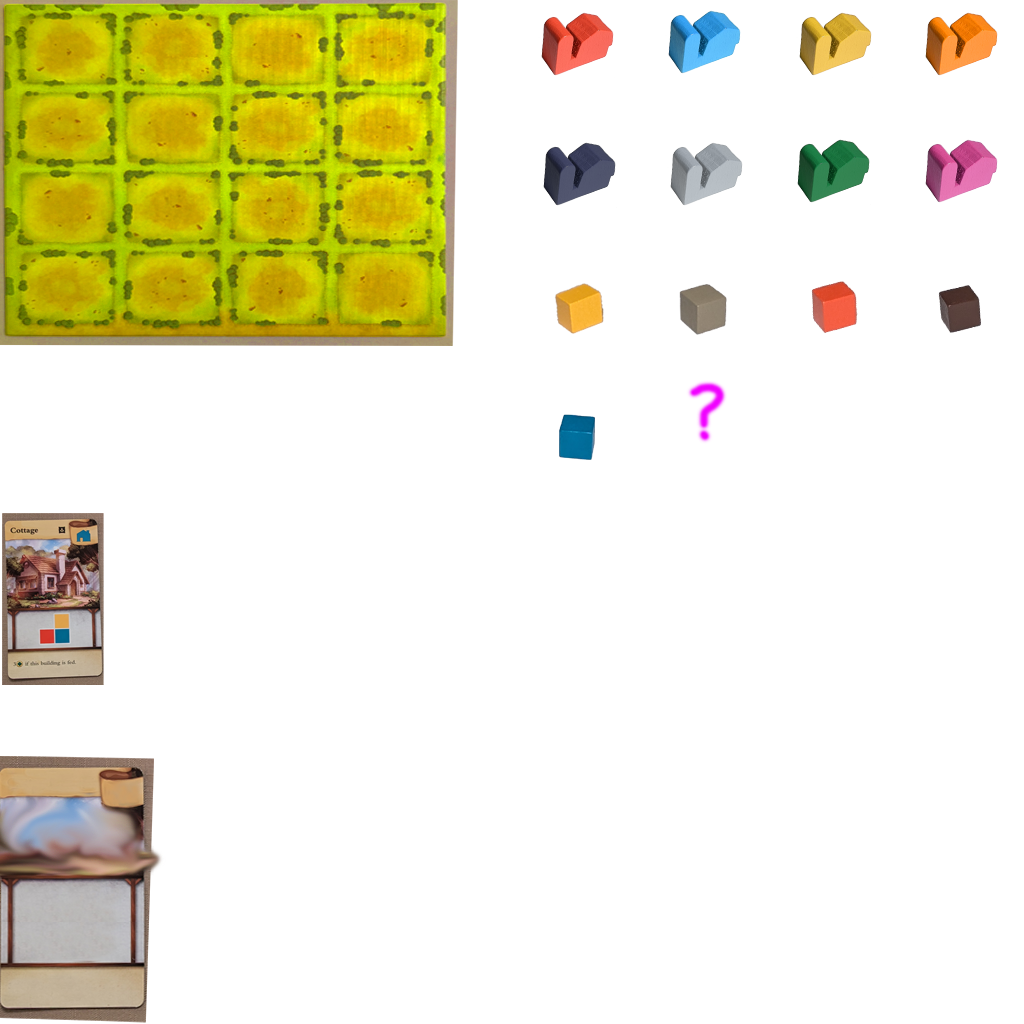
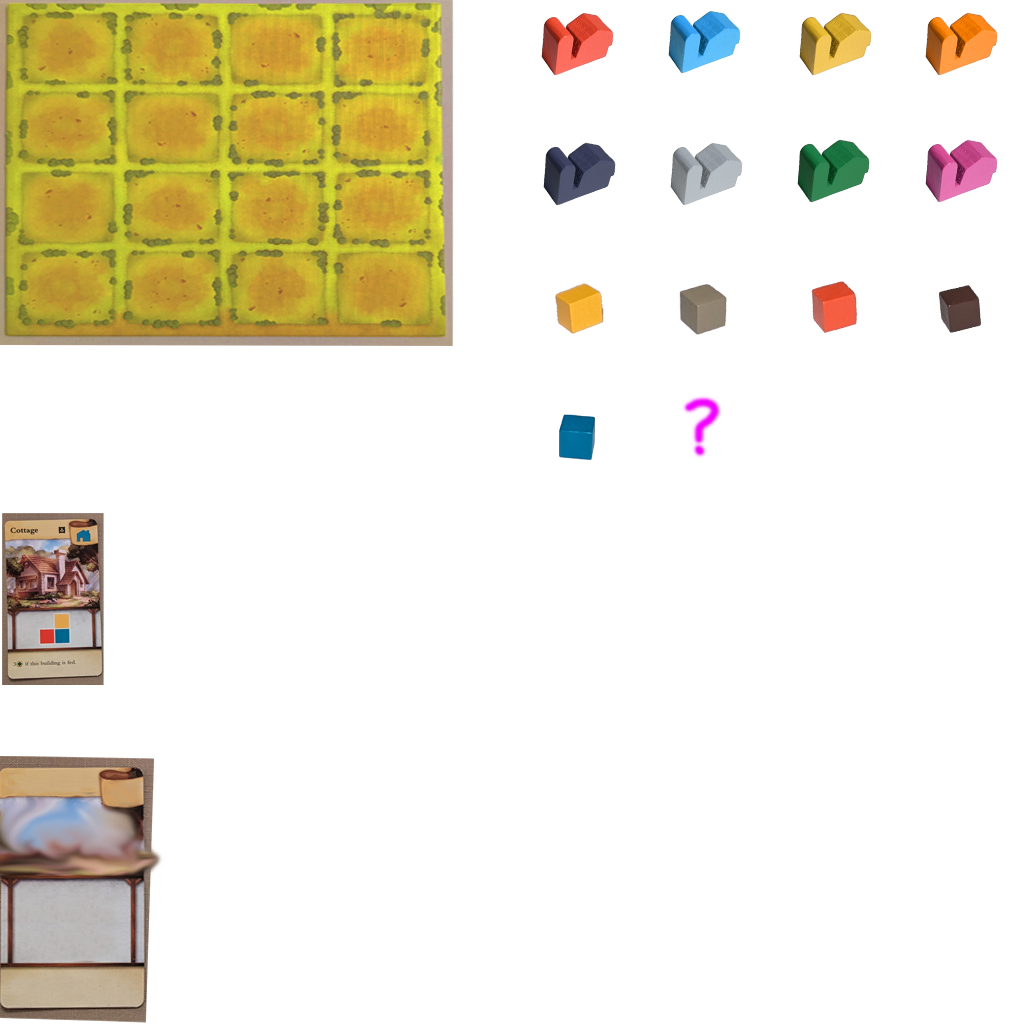
meeples

Changed region(s): [[0.0, 0.0, 0.4688, 0.3438], [0.6562, 0.375, 0.7188, 0.4375]]

diff --git a/iris/gamemode.js b/iris/gamemode.js
@@ -3,6 +3,9 @@ import Towns from './towns.js';
 export default class GameMode {
   constructor(iris) {
     this.iris = iris;
+    this.colors = {
+      background: '#ccdd99'
+    };
     this._setup();
   }
 
@@ -36,7 +39,13 @@ export default class GameMode {
         for (let col = 0; col < 4; col++) {
           const x = left + col * w;
           const y = top + row * h;
-          this.layout.tiles.push({ bounds: [x, y, w, h] });
+          this.layout.tiles.push(
+            {
+              type: 'tile',
+              bounds: [x, y, w, h],
+              id: row * 4 + col,
+             }
+          );
         }
       }
     }
@@ -69,13 +78,15 @@ export default class GameMode {
       const left = 350;
       const top = 532;
       let i = 0;
+      const names = ['wheat', 'stone', 'brick', 'wood', 'glass'];
       for (let row = 0; row < 5; row++) {
         for (let col = 0; col < 1; col++) {
             const x = left + (row % 2 === 0 ? -1/3 * w : 1/3 * w);
           const y = top + row * h;
           let resource = {
             bounds: [x, y, w, h],
-            id: i
+            id: i,
+            piece: names[i],
           };
           this.layout.resources.push(resource);
           i++;
@@ -85,7 +96,9 @@ export default class GameMode {
 
     // areas for 16 tiles
     this.layout.tiles.forEach(tile => {
-      this.iris.areas.add(tile.bounds);
+      let area = this.iris.areas.addBounds(tile.bounds, null, this._onDragBoard.bind(this));
+      area.type = tile.type;
+      area.id = tile.id;
     });
 
     // cards
@@ -94,12 +107,12 @@ export default class GameMode {
       let onCLick = () => {
         this._setCard(card.id);
       };
-      this.iris.areas.add(card.bounds, onCLick);
+      this.iris.areas.addBounds(card.bounds, onCLick);
     });
 
     // card area
     this.layout.card.text = this.iris.addText(this.layout.card.label, this.layout.card.bounds);
-    this.iris.areas.add(this.layout.card.bounds);
+    this.iris.areas.addBounds(this.layout.card.bounds, null, this._onDragCard.bind(this));
 
     // resources
     this.layout.resources.forEach(resource => {
@@ -107,7 +120,8 @@ export default class GameMode {
       let onClick = () => {
         //this._setCard(resource.id);
       };
-      this.iris.areas.add(resource.bounds, onClick);
+      let area = this.iris.areas.addBounds(resource.bounds, onClick, this._onDragResource.bind(this));
+      area.piece = resource.piece;
     });
 
     // other areas
@@ -153,13 +167,9 @@ export default class GameMode {
       this.iris.helly.draw(resourceId, this._center(resource.bounds));
     });
 
-    //this.iris.helly.draw('resource00', [350, 100]);
-    //this.iris.helly.draw('resource01', [390, 150]);
-    //this.iris.helly.draw('resource00', [350, 200]);
-
     // cursor
-    if (this.iris.areas.start) {
-      this.iris.helly.draw('building00', this.iris.areas.position);
+    if (this.iris.areas.start && this.dragMeeple) {
+      this.iris.helly.draw(this.dragMeeple.sprite, this.iris.areas.position);
     }
   }
 
@@ -182,5 +192,58 @@ export default class GameMode {
       return map[resource];
     }
     return 'error';
+  }
+
+  _getMeeple(name) {
+    const resources = {
+      wheat: 'resource00',
+      stone: 'resource01',
+      brick: 'resource02',
+      wood: 'resource03',
+      glass: 'resource04',
+    };
+    if (name in resources) {
+      return {
+        name: name,
+        type: 'resource',
+        sprite: resources[name],
+      };
+    }
+    if (name == 'red') {
+      return {
+        name: name,
+        type: 'building',
+        sprite: 'building00',
+      };
+    }
+    return {
+      name: 'none',
+      type: 'none',
+      sprite: 'error',
+    };
+  }
+
+  _onDragBoard(action, area) {
+    console.log(`Drag board ${action} ${JSON.stringify(area)}`);
+  }
+
+  _onDragCard(action, area) {
+    console.log(`Drag board ${action} ${JSON.stringify(area)}`);
+    if (action === 'start') {
+      return true;
+    }
+  }
+
+  _onDragResource(action, area) {
+    console.log(`Drag board ${action} ${JSON.stringify(area)}`);
+    if (action === 'start') {
+      this.dragMeeple = this._getMeeple(area.piece);
+      return true;
+    }
+    if (action === 'drop') {
+      if (area.type === 'tile') {
+        this.towns.board.tiles[area.id].resource = this.dragMeeple.name;
+      }
+    }
   }
 }

diff --git a/iris/areas.js b/iris/areas.js
@@ -10,7 +10,6 @@ export default class Areas {
   }
 
   onChanged(touches, type) {
-    //console.log('Touches:', touches, 'Type:', type);
     let lastState = this.state;
 
     let current;
@@ -27,6 +26,8 @@ export default class Areas {
           this.state = 'touching';
           this.start = current;
           this.end = current;
+            this.canClick = Boolean(this.start.onClick);
+          this.canDrag = (this.start.onDrag && this.start.onDrag('start', this.start));
         } else {
           this._resetState('bad');
         }
@@ -35,13 +36,15 @@ export default class Areas {
 
       case 'touching':
         if (type === 'none') {
-          if (this.start === this.end && this.start.onClick) {
+          if (this.canClick && (this.start === this.end)) {
             this.start.onClick();
+          }
+          else if(this.canDrag) {
+            this.start.onDrag('drop', this.end);
           }
           this._resetState('idle');
         }
         else if (type === 'move') {
-          //console.log('Dragging:', touches);
           this.end = current;
         }
         else if (touches.length > 1) {
@@ -75,13 +78,18 @@ export default class Areas {
     this.start = null;
     this.end = null;
     this.position = null;
+    this.canClick = false;
+    this.canDrag = false;
   }
 
-  add(bounds, onCLick) {
-    this.list.push({
+  addBounds(bounds, onCLick, onDrag) {
+    let area = {
       bounds: bounds,
-      onClick: onCLick
-    });
+      onClick: onCLick,
+      onDrag: onDrag
+    };
+    this.list.push(area);
+    return area;
   }
 
   _debugDraw(ctx) {
@@ -92,7 +100,7 @@ export default class Areas {
         color = 'orange';
       } else if (area === this.start) {
         color = 'red';
-      } else if (area === this.end) {
+      } else if (this.canDrag && area === this.end) {
         color = 'yellow';
       }
       if (color) {

diff --git a/iris/townsboard.js b/iris/townsboard.js
@@ -5,21 +5,5 @@ export default class TownsBoard {
 
   _clear() {
     this.tiles = new Array(16).fill(null).map(() => ({}));
-    this.tiles[0].resource = 'wheat';
-    this.tiles[3].resource = 'glass';
-    this.tiles[6].resource = 'stone';
-    this.tiles[10].resource = 'wood';
-    this.tiles[12].resource = 'brick';
-    this.tiles[15].resource = 'wheat';
-
-    this.tiles[2].building = 'red';
-    this.tiles[3].building = 'green';
-    this.tiles[6].building = 'blue';
-    this.tiles[7].building = 'gray';
-    this.tiles[8].building = 'pink';
-    this.tiles[9].building = 'yellow';
-    this.tiles[10].building = 'orange';
-    this.tiles[13].building = 'black';
-    this.tiles[14].building = 'gray';
   }
 }

diff --git a/iris/program.js b/iris/program.js
@@ -11,7 +11,7 @@ export default class Program {
       gradientStart: '#6e6c62',
       gradientEnd: '#bab2b8',
       boundsBackground: '#d3d3e3',
-      canvasBackground: '#554433'
+      canvasBackground: '#bbaa66'
     };
   }
 
